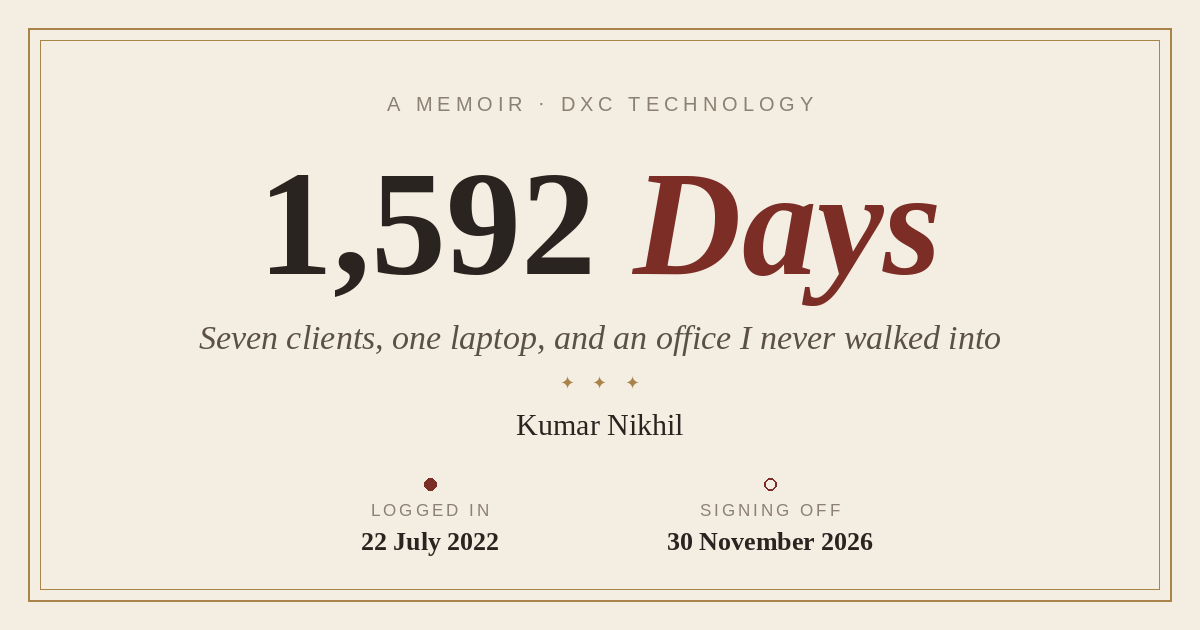
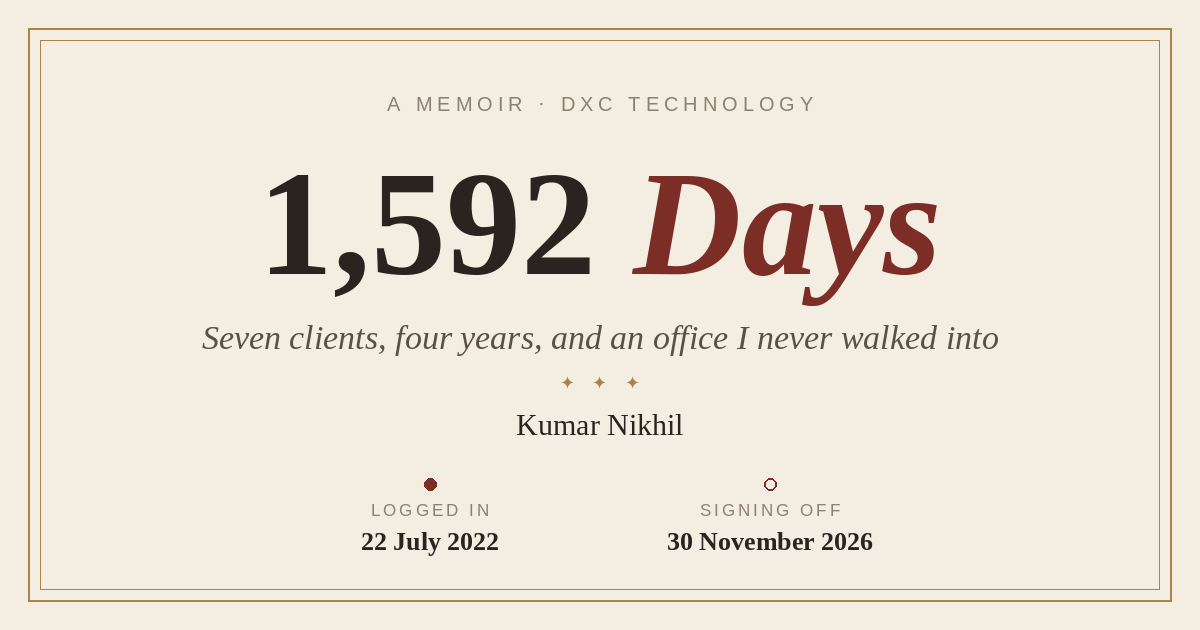
Replace laptop tile and cover line

Changed region(s): [[0.1542, 0.5127, 0.8325, 0.573]]

diff --git a/index.html b/index.html
@@ -7,7 +7,7 @@
 <meta name="description" content="A memoir of my journey at DXC Technology, 22 July 2022 – 30 November 2026.">
 <meta property="og:type" content="website">
 <meta property="og:title" content="1,592 Days — My Journey at DXC">
-<meta property="og:description" content="Seven clients, one laptop, and an office I never walked into. A memoir by Kumar Nikhil.">
+<meta property="og:description" content="Seven clients, four years, and an office I never walked into. A memoir by Kumar Nikhil.">
 <meta property="og:url" content="https://myfirstoffice.github.io/">
 <meta property="og:image" content="https://myfirstoffice.github.io/og-image.png">
 <meta property="og:image:width" content="1200">
@@ -322,7 +322,7 @@ img{max-width:100%;height:auto}
 <header class="cover" id="cover">
   <div class="eyebrow">A Memoir · DXC Technology</div>
   <h1>1,592 <em>Days</em></h1>
-  <p class="sub">Seven clients, one laptop, and an office I never walked into</p>
+  <p class="sub">Seven clients, four years, and an office I never walked into</p>
   <div class="ornament">✦ ✦ ✦</div>
   <div class="author">Kumar Nikhil</div>
   <div class="dates">
@@ -631,7 +631,7 @@ img{max-width:100%;height:auto}
     <div class="stat"><div class="v" data-count="16">0</div><div class="k">Hours on one bridge</div></div>
     <div class="stat"><div class="v" data-count="399940" data-stat="mailbox">0</div><div class="k">Emails in my mailbox</div></div>
     <div class="stat"><div class="v" data-count="3879" data-stat="sent">0</div><div class="k">Emails I sent</div></div>
-    <div class="stat"><div class="v" data-count="1">0</div><div class="k">Laptop, start to finish</div></div>
+    <div class="stat"><div class="v" data-count="10">0</div><div class="k">Champs winner lists I opened</div></div>
     <div class="stat"><div class="v" data-count="42725" data-stat="teams_total">0</div><div class="k">One-to-one Teams messages</div></div>
   </div>
   <div class="page" style="padding:0 28px">
